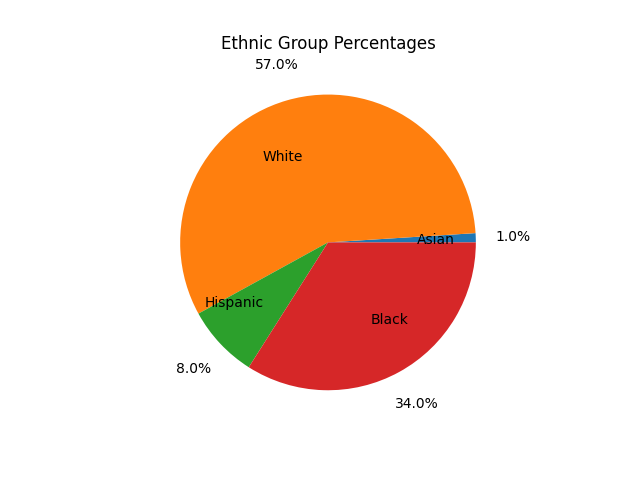
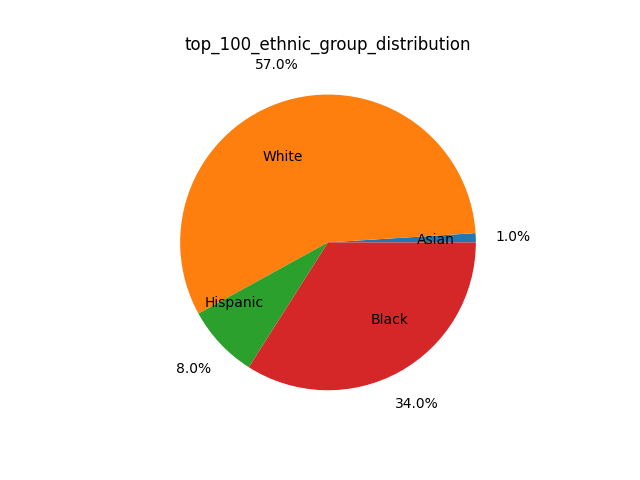
fixing title for top 100 ethnic group distribution plot

Changed region(s): [[0.2812, 0.0625, 0.7188, 0.125]]

diff --git a/analysis/roster/roster.py b/analysis/roster/roster.py
@@ -72,7 +72,7 @@ def plot_ethnic_grp_dist(df, title):
        fig, ax = plt.subplots()
        ax.pie(sizes, labels=labels, autopct='%1.1f%%',
               pctdistance=1.25, labeldistance=.6)
-       plt.title('Ethnic Group Percentages')
+       plt.title(title)
        # plt.savefig(f'./figures/{title}.png') # only uncomment when you want to save figure
        plt.show()
 
